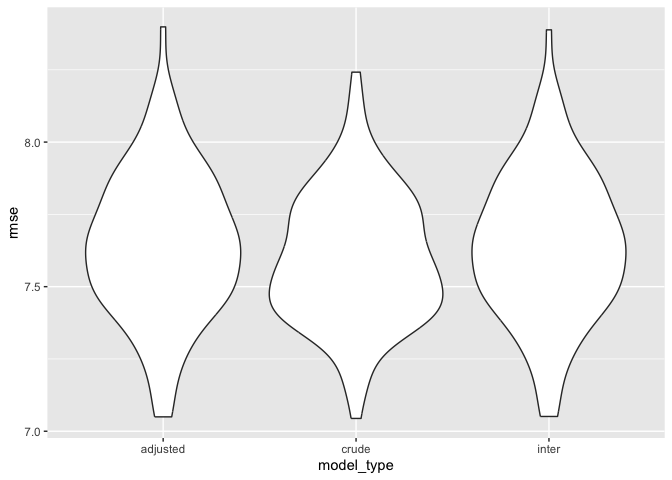
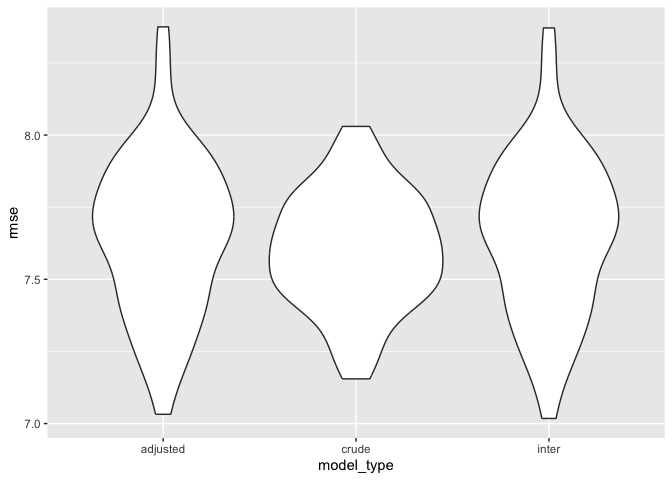
model activity

diff --git a/p8105-Final-model-analysis.md b/p8105-Final-model-analysis.md
@@ -122,9 +122,9 @@ cv_results |>
     ## # A tibble: 3 × 2
     ##   model_type    m_rmse
     ##   <chr>          <dbl>
-    ## 1 fast_adjusted   11.3
-    ## 2 fast_crude      15.2
-    ## 3 fast_inter      11.8
+    ## 1 fast_adjusted   11.1
+    ## 2 fast_crude      14.6
+    ## 3 fast_inter      12.2
 
 ``` r
 cv_results |> 
@@ -221,9 +221,9 @@ cv_results_sedentary |>
     ## # A tibble: 3 × 2
     ##   model_type m_rmse
     ##   <chr>       <dbl>
-    ## 1 adjusted     7.64
+    ## 1 adjusted     7.65
     ## 2 crude        7.60
-    ## 3 inter        7.64
+    ## 3 inter        7.65
 
 In the context of these models, a lower RMSE indicates a more accurate
 prediction of BMI from the predictors used in the model.
@@ -265,19 +265,19 @@ print(summary_crude_example)
     ## 
     ## Residuals:
     ##     Min      1Q  Median      3Q     Max 
-    ## -17.286  -5.177  -1.222   3.796  61.032 
+    ## -17.172  -5.244  -1.281   3.840  52.476 
     ## 
     ## Coefficients:
     ##                     Estimate Std. Error t value Pr(>|t|)    
-    ## (Intercept)        2.818e+01  1.895e-01   148.7   <2e-16 ***
-    ## sedentary_activity 5.151e-03  4.814e-04    10.7   <2e-16 ***
+    ## (Intercept)        2.840e+01  1.898e-01 149.600   <2e-16 ***
+    ## sedentary_activity 4.684e-03  4.802e-04   9.754   <2e-16 ***
     ## ---
     ## Signif. codes:  0 '***' 0.001 '**' 0.01 '*' 0.05 '.' 0.1 ' ' 1
     ## 
-    ## Residual standard error: 7.542 on 5971 degrees of freedom
-    ##   (3137 observations deleted due to missingness)
-    ## Multiple R-squared:  0.01881,    Adjusted R-squared:  0.01865 
-    ## F-statistic: 114.5 on 1 and 5971 DF,  p-value: < 2.2e-16
+    ## Residual standard error: 7.57 on 5990 degrees of freedom
+    ##   (3118 observations deleted due to missingness)
+    ## Multiple R-squared:  0.01563,    Adjusted R-squared:  0.01547 
+    ## F-statistic: 95.14 on 1 and 5990 DF,  p-value: < 2.2e-16
 
 ## Interpretation of the crude model (activity)
 
